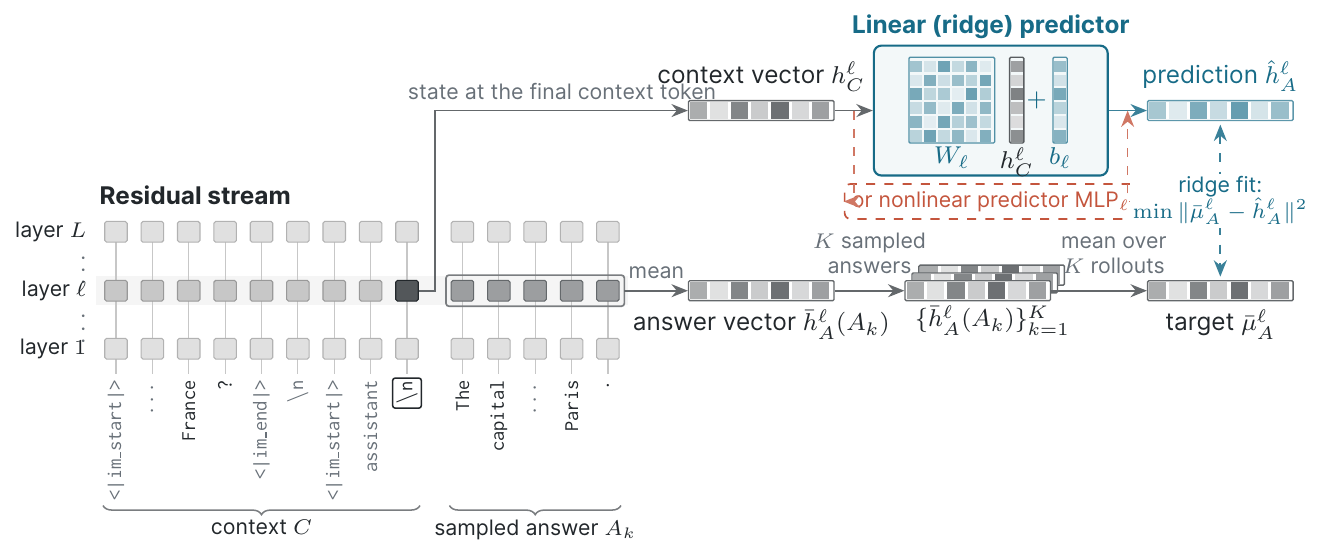
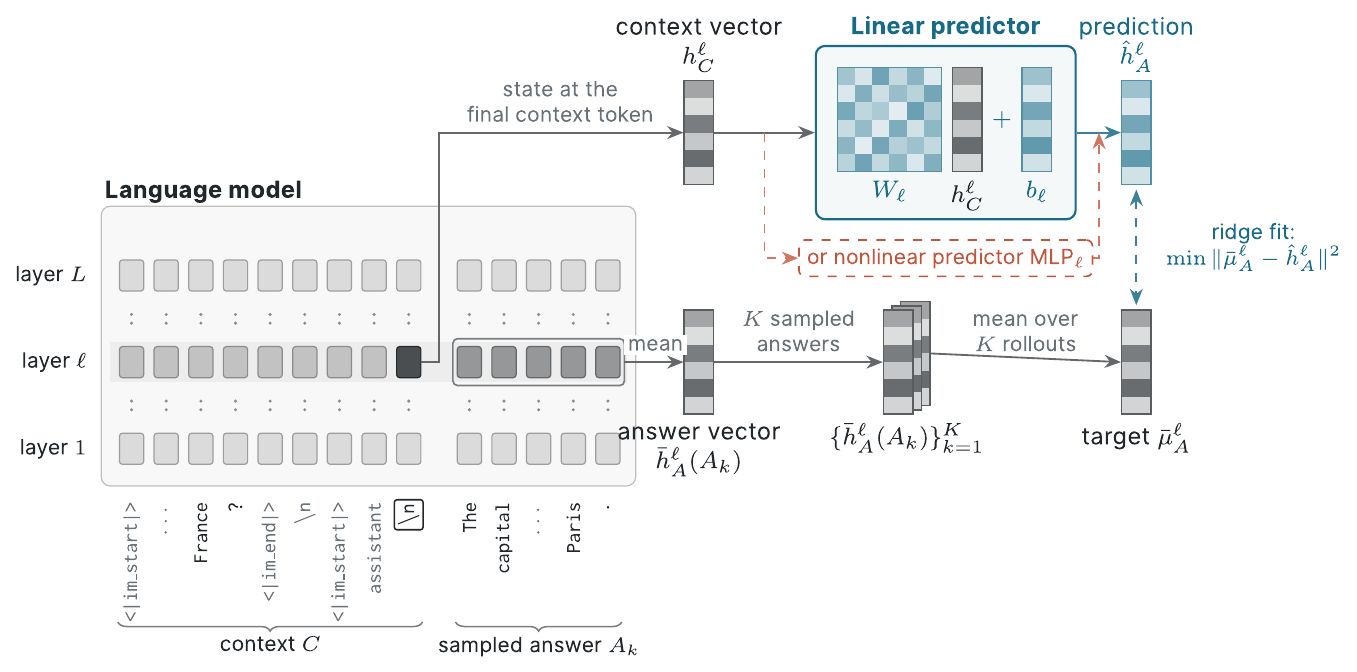
paper Figure 1 rev 6: task-vectors-style residual-stream grid, contiguous-cell column vectors and matrix, respaced labels (Thomas 2026-09-03)
Generated with [Claude Code](https://claude.ai/code)
via [Happy](https://happy.engineering)

Changed region(s): [[0.0, 0.0306, 0.9909, 0.9784], [0.3097, 0.9173, 0.4955, 0.9784], [0.0619, 0.2752, 0.2168, 0.3058]]

diff --git a/docs/paper_context_answer_map/fig1_schematic.tex b/docs/paper_context_answer_map/fig1_schematic.tex
@@ -1,4 +1,4 @@
-% Figure 1: context-to-answer prediction pipeline (rev 4, 2026-09-03).
+% Figure 1: context-to-answer prediction pipeline (rev 6, 2026-09-03).
 % Compile standalone: pdflatex fig1_schematic.tex
 % THEN convert text to outlines before copying to Overleaf (REQUIRED):
 %   gs -q -dNOPAUSE -dBATCH -sDEVICE=pdfwrite -dNoOutputFonts -dCompatibilityLevel=1.5 \
@@ -9,16 +9,16 @@
 % draw a literal "No Glyph" box over every bar accent (Thomas, 2026-09-03). Outlining
 % removes all fonts from the figure PDF, so no viewer does any glyph lookup.
 %
-% Design notes (Thomas, 2026-09-03): show the transformer layers (token columns
-% x layer rows, layer l highlighted) so the two vectors are read off the layer-l
-% row; tokens may be truncated ("..." columns) but the template tokens around the
-% context/answer boundary are exact for Qwen2.5-7B-Instruct (the context vector
-% sits on the "\n" token after "assistant", token id 198). No circles for vectors
-% (cell strips), Inter text font matching the other paper figures, the ridge
-% predictor drawn as a matrix plus a bias with the MLP as a small dashed
-% alternative, no evaluation / uses boxes. Palette = paper palette
-% (c2a_plot_style.py): ink #22272B, muted #687078, linear teal #176B87,
-% nonlinear terracotta #C4553D. Two text sizes: 8 pt (names) and 7 pt (annotations, tokens).
+% Design (Thomas, 2026-09-03): follows the residual-stream convention of Hendel et al.
+% 2023 (task vectors, Fig. 1): a model box holding a grid of tall rounded hidden-state
+% rectangles, tokens as columns, layers as rows with dots for the elided layers, the
+% extracted states filled in a solid color. Vectors are tall contiguous-cell columns
+% (no gaps), the ridge map is a contiguous 6x6 cell grid, so the predictor reads as
+% matrix x column + column. Tokens are truncated but the template tokens around the
+% context/answer boundary are exact for Qwen2.5-7B-Instruct (the context vector sits
+% on the "\n" token after "assistant", token id 198). Palette = paper palette
+% (c2a_plot_style.py): ink #22272B, muted #687078, linear teal #176B87, nonlinear
+% terracotta #C4553D. Two text sizes: 8 pt (names) and 7 pt (annotations, tokens).
 \documentclass[tikz,border=4pt]{standalone}
 \usepackage[type1]{inter}
 \renewcommand{\familydefault}{\sfdefault}
@@ -32,39 +32,29 @@
 \definecolor{terra}{HTML}{C4553D}
 \definecolor{paper}{HTML}{FFFFFF}
 
-% ---- vector glyph: a row of small square cells ------------------------------
-\newcommand{\vecstrip}[4]{%
+% ---- column vector glyph: 6 contiguous cells, 0.34 x 1.20 cm ----------------------
+% \colvec{<node name>}{<x>}{<y>}{<color>}
+\newcommand{\colvec}[4]{%
   \begin{scope}[shift={(#2,#3)}]
-    \fill[paper] (-0.84,-0.115) rectangle (0.84,0.115);
-    \foreach \i/\s in {0/38,1/14,2/56,3/24,4/66,5/18,6/44} {
-      \fill[#4!\s] ({-0.8225+\i*0.235},-0.1) rectangle ++(0.2,0.2);
+    \foreach \r/\s in {0/42,1/16,2/60,3/26,4/68,5/20} {
+      \fill[#4!\s] (-0.17,{0.60-(\r+1)*0.20}) rectangle (0.17,{0.60-\r*0.20});
     }
-    \draw[#4!70, line width=0.45pt, rounded corners=0.4pt] (-0.84,-0.115) rectangle (0.84,0.115);
+    \draw[#4!75, line width=0.5pt] (-0.17,-0.60) rectangle (0.17,0.60);
   \end{scope}
-  \node[inner sep=0pt, minimum width=1.68cm, minimum height=0.23cm] (#1) at (#2,#3) {};
+  \node[inner sep=0pt, minimum width=0.34cm, minimum height=1.2cm] (#1) at (#2,#3) {};
 }
-% ---- matrix glyph: a 6x6 grid --------------------------------------------------
-\newcommand{\matglyph}[4]{%
+% ---- matrix glyph: 6x6 contiguous cells, 1.20 x 1.20 cm ---------------------------
+\newcommand{\matgrid}[4]{%
   \begin{scope}[shift={(#2,#3)}]
     \foreach \r/\row in {0/{40,18,62,26,50,14},1/{16,54,22,44,30,60},2/{58,28,36,12,64,34},
                         3/{24,46,14,56,20,48},4/{50,12,60,32,42,26},5/{30,62,26,48,16,54}} {
-      \foreach \c/\s [count=\ci from 0] in \row {
-        \fill[#4!\s] ({-0.48+\ci*0.16},{0.32-\r*0.16}) rectangle ++(0.135,0.135);
+      \foreach \s [count=\ci from 0] in \row {
+        \fill[#4!\s] ({-0.60+\ci*0.20},{0.60-(\r+1)*0.20}) rectangle ({-0.60+(\ci+1)*0.20},{0.60-\r*0.20});
       }
     }
-    \draw[#4!75, line width=0.45pt, rounded corners=0.4pt] (-0.495,-0.495) rectangle (0.495,0.495);
+    \draw[#4!75, line width=0.5pt] (-0.60,-0.60) rectangle (0.60,0.60);
   \end{scope}
-  \node[inner sep=0pt, minimum width=0.99cm, minimum height=0.99cm] (#1) at (#2,#3) {};
-}
-% ---- column glyph: 6 stacked cells -----------------------------------------------
-\newcommand{\colglyph}[4]{%
-  \begin{scope}[shift={(#2,#3)}]
-    \foreach \r/\s in {0/44,1/20,2/58,3/30,4/16,5/52} {
-      \fill[#4!\s] (-0.0675,{0.32-\r*0.16}) rectangle ++(0.135,0.135);
-    }
-    \draw[#4!75, line width=0.45pt, rounded corners=0.4pt] (-0.0825,-0.495) rectangle (0.0825,0.495);
-  \end{scope}
-  \node[inner sep=0pt, minimum width=0.165cm, minimum height=0.99cm] (#1) at (#2,#3) {};
+  \node[inner sep=0pt, minimum width=1.2cm, minimum height=1.2cm] (#1) at (#2,#3) {};
 }
 
 \begin{document}
@@ -78,130 +68,120 @@
   tok/.style={font=\ttfamily\fontsize{7}{8.2}\selectfont, text=muted, inner sep=0.8pt,
               rotate=90, anchor=east},
   tokink/.style={tok, text=ink},
-  cell/.style={draw=black!30, fill=black!12, line width=0.35pt, rounded corners=0.6pt,
-               minimum width=0.26cm, minimum height=0.24cm, inner sep=0pt},
-  cellctx/.style={cell, fill=black!22, draw=black!40},
-  cellans/.style={cell, fill=ink!45, draw=ink!70},
-  cellfinal/.style={cell, fill=ink!78, draw=ink},
-  conn/.style={black!22, line width=0.4pt},
+  hs/.style={draw=black!38, fill=black!14, line width=0.4pt, rounded corners=1pt,
+             minimum width=0.28cm, minimum height=0.36cm, inner sep=0pt},
+  hsctx/.style={hs, fill=black!24, draw=black!45},
+  hsans/.style={hs, fill=ink!48, draw=ink!70},
+  hsfinal/.style={hs, fill=ink!82, draw=ink},
   flow/.style={->, line width=0.6pt, ink!70},
   bypass/.style={->, dashed, line width=0.5pt, terra!80},
 ]
 
 % ===========================================================================
-% Left: transformer residual stream, tokens as columns, layers as rows.
-% Context columns i = 0..8 at x = 0.75 + 0.42 i; answer columns j = 0..4 at x = 4.75 + 0.42 j.
-% Rows: layer 1 at y = 0.95, layer l at 1.62, layer L at 2.30.
+% Left: the language model as a grid of hidden states (Hendel et al. 2023 style).
+% Context columns i = 0..8 at x = 0.80 + 0.40 i; answer columns j = 0..4 at x = 4.70 + 0.40 j.
+% Rows: layer 1 at y = 1.05, layer l at 2.05, layer L at 3.05; dots at 1.55 and 2.55.
 % ===========================================================================
-\node[lbl, anchor=west, font=\fontsize{8}{9.5}\selectfont\bfseries] at (0.52,2.72)
-  {Residual stream};
+\draw[fill=black!3, draw=black!25, rounded corners=3pt] (0.45,0.62) rectangle (6.62,3.85);
+\node[lbl, anchor=west, font=\fontsize{8}{9.5}\selectfont\bfseries] at (0.45,4.02) {Language model};
+\fill[black!7] (0.55,1.82) rectangle (6.52,2.28);   % layer-l band
 
-% layer labels
-\node[ann, anchor=east, text=ink] at (0.45,2.30) {layer $L$};
-\node[ann, anchor=east] at (0.45,1.96) {$\vdots$};
-\node[ann, anchor=east, text=ink] at (0.45,1.62) {layer $\ell$};
-\node[ann, anchor=east] at (0.45,1.285) {$\vdots$};
-\node[ann, anchor=east, text=ink] at (0.45,0.95) {layer $1$};
+\node[ann, anchor=east, text=ink] at (0.32,3.05) {layer $L$};
+\node[ann, anchor=east, text=ink] at (0.32,2.05) {layer $\ell$};
+\node[ann, anchor=east, text=ink] at (0.32,1.05) {layer $1$};
 
-% layer-l band
-\fill[black!4] (0.52,1.45) rectangle (6.66,1.79);
-
-% tokens (rotated), connectors, and cells
-% context: the first template token, an elision, then the exact tail of the prompt
-\foreach \x/\t/\s in {0.75/{<|im\_start|>}/tok, 1.17/{$\cdots$}/tok, 1.59/{France}/tokink,
-                     2.01/{?}/tokink, 2.43/{<|im\_end|>}/tok, 2.85/{\textbackslash n}/tok,
-                     3.27/{<|im\_start|>}/tok, 3.69/{assistant}/tok} {
-  \node[\s] at (\x,0.62) {\t};
-  \draw[conn] (\x,0.66) -- (\x,0.83);
-  \draw[conn] (\x,1.07) -- (\x,1.50);
-  \draw[conn] (\x,1.74) -- (\x,2.18);
-  \node[cell] at (\x,0.95) {};
-  \node[cellctx] at (\x,1.62) {};
-  \node[cell] at (\x,2.30) {};
+% context columns (first template token, an elision, then the exact tail of the prompt)
+\foreach \x/\t/\s in {0.80/{<|im\_start|>}/tok, 1.20/{$\cdots$}/tok, 1.60/{France}/tokink,
+                     2.00/{?}/tokink, 2.40/{<|im\_end|>}/tok, 2.80/{\textbackslash n}/tok,
+                     3.20/{<|im\_start|>}/tok, 3.60/{assistant}/tok} {
+  \node[\s] at (\x,0.47) {\t};
+  \node[hs] at (\x,1.05) {};
+  \node[hsctx] at (\x,2.05) {};
+  \node[hs] at (\x,3.05) {};
+  \fill[black!45] (\x,1.50) circle (0.55pt) (\x,1.60) circle (0.55pt)
+                  (\x,2.50) circle (0.55pt) (\x,2.60) circle (0.55pt);
 }
 % the final context token: "\n" after "assistant" (its layer-l state is h_C)
 \node[tokink, draw=ink, line width=0.5pt, rounded corners=0.8pt, inner sep=1.2pt, fill=paper]
-  at (4.11,0.62) {\textbackslash n};
-\draw[conn] (4.11,0.66) -- (4.11,0.83);
-\draw[conn] (4.11,1.07) -- (4.11,1.50);
-\draw[conn] (4.11,1.74) -- (4.11,2.18);
-\node[cell] at (4.11,0.95) {};
-\node[cellfinal] (nlcell) at (4.11,1.62) {};
-\node[cell] at (4.11,2.30) {};
-% answer: the sampled answer's tokens (elided in the middle)
-\foreach \x/\t/\s in {4.75/{The}/tokink, 5.17/{capital}/tokink, 5.59/{$\cdots$}/tok,
-                     6.01/{Paris}/tokink, 6.43/{.}/tokink} {
-  \node[\s] at (\x,0.62) {\t};
-  \draw[conn] (\x,0.66) -- (\x,0.83);
-  \draw[conn] (\x,1.07) -- (\x,1.50);
-  \draw[conn] (\x,1.74) -- (\x,2.18);
-  \node[cell] at (\x,0.95) {};
-  \node[cellans] at (\x,1.62) {};
-  \node[cell] at (\x,2.30) {};
+  at (4.00,0.47) {\textbackslash n};
+\node[hs] at (4.00,1.05) {};
+\node[hsfinal] (hfinal) at (4.00,2.05) {};
+\node[hs] at (4.00,3.05) {};
+\fill[black!45] (4.00,1.50) circle (0.55pt) (4.00,1.60) circle (0.55pt)
+                (4.00,2.50) circle (0.55pt) (4.00,2.60) circle (0.55pt);
+% answer columns (the sampled answer's tokens, elided in the middle)
+\foreach \x/\t/\s in {4.70/{The}/tokink, 5.10/{capital}/tokink, 5.50/{$\cdots$}/tok,
+                     5.90/{Paris}/tokink, 6.30/{.}/tokink} {
+  \node[\s] at (\x,0.47) {\t};
+  \node[hs] at (\x,1.05) {};
+  \node[hsans] at (\x,2.05) {};
+  \node[hs] at (\x,3.05) {};
+  \fill[black!45] (\x,1.50) circle (0.55pt) (\x,1.60) circle (0.55pt)
+                  (\x,2.50) circle (0.55pt) (\x,2.60) circle (0.55pt);
 }
-% box around the answer-token states at layer l
-\draw[ink!60, line width=0.55pt, rounded corners=1pt] (4.56,1.44) rectangle (6.62,1.80);
+% group of answer-token states at layer l
+\draw[ink!60, line width=0.55pt, rounded corners=1.5pt] (4.51,1.78) rectangle (6.49,2.32);
 
 % braces under the tokens
 \draw[decorate, decoration={brace, mirror, amplitude=3pt}, ink!60, line width=0.5pt]
-  (0.60,-0.86) -- (4.26,-0.86) node[midway, below=3.5pt, ann, text=ink] {context $C$};
+  (0.64,-0.95) -- (4.16,-0.95) node[midway, below=3.5pt, ann, text=ink] {context $C$};
 \draw[decorate, decoration={brace, mirror, amplitude=3pt}, ink!60, line width=0.5pt]
-  (4.60,-0.86) -- (6.58,-0.86) node[midway, below=3.5pt, ann, text=ink] {sampled answer $A_k$};
+  (4.54,-0.95) -- (6.46,-0.95) node[midway, below=3.5pt, ann, text=ink] {sampled answer $A_k$};
 
 % ===========================================================================
-% Middle: the two vectors read off the layer-l row.
+% Middle: the two vectors read off layer l.
 % ===========================================================================
-\vecstrip{hc}{8.20}{3.70}{ink}
-\node[lbl, above=1.5pt of hc] {context vector $h_C^{\ell}$};
-\draw[flow] (nlcell.east) -- (4.43,1.62) -- (4.43,3.70) -- (hc.west);
-\node[ann, anchor=south] at (5.90,3.78) {state at the final context token};
+\colvec{hc}{7.35}{4.70}{ink}
+\node[lbl, anchor=south, align=center] at (7.35,5.36) {context vector\\$h_C^{\ell}$};
+\draw[flow] (hfinal.east) -- (4.35,2.05) -- (4.35,4.70) -- (hc.west);
+\node[ann, anchor=south] at (5.75,4.78) {state at the\\final context token};
 
-\vecstrip{ha}{8.20}{1.62}{ink}
-\node[lbl, below=1.5pt of ha] {answer vector $\bar h_A^{\ell}(A_k)$};
-\draw[flow] (6.62,1.62) -- (ha.west);
-\node[ann, anchor=south] at (6.99,1.72) {mean};
+\colvec{ha}{7.35}{2.05}{ink}
+\node[lbl, anchor=north, align=center] at (7.35,1.39) {answer vector\\$\bar h_A^{\ell}(A_k)$};
+\draw[flow] (6.49,2.05) -- (ha.west);
+\node[ann, anchor=south, fill=paper, inner sep=1.2pt] at (6.85,2.13) {mean};
 
 % ===========================================================================
 % Right: the predictor (top) and the prediction target (bottom).
 % ===========================================================================
-\node[draw=teal, line width=0.7pt, fill=teal!5, rounded corners=2.5pt,
-      minimum width=2.7cm, minimum height=1.5cm, inner sep=0pt] (ridge) at (10.85,3.70) {};
+\node[draw=teal, line width=0.7pt, fill=teal!5, rounded corners=3pt,
+      minimum width=3.0cm, minimum height=2.0cm, inner sep=0pt] (ridge) at (10.20,4.70) {};
 \node[lbl, text=teal, anchor=south, font=\fontsize{8}{9.5}\selectfont\bfseries]
-  at ($(ridge.north)+(0,0.02)$) {Linear (ridge) predictor};
-\matglyph{W}{10.40}{3.82}{teal}
-\node[lbl, text=teal, anchor=north, inner sep=0.5pt] at (10.40,3.30) {$W_\ell$};
-\colglyph{hcol}{11.15}{3.82}{ink}
-\node[lbl, anchor=north, inner sep=0.5pt] at (11.15,3.30) {$h_C^{\ell}$};
-\node[lbl, text=teal, inner sep=0pt] at (11.38,3.82) {$+$};
-\colglyph{b}{11.65}{3.82}{teal}
-\node[lbl, text=teal, anchor=north, inner sep=0.5pt] at (11.65,3.30) {$b_\ell$};
+  at (10.20,5.74) {Linear predictor};
+\matgrid{W}{9.55}{4.85}{teal}
+\node[lbl, text=teal, anchor=north, inner sep=0.5pt] at (9.55,4.17) {$W_\ell$};
+\colvec{hcol}{10.45}{4.85}{ink}
+\node[lbl, anchor=north, inner sep=0.5pt] at (10.45,4.17) {$h_C^{\ell}$};
+\node[lbl, text=teal, inner sep=0pt] at (10.85,4.85) {$+$};
+\colvec{bcol}{11.25}{4.85}{teal}
+\node[lbl, text=teal, anchor=north, inner sep=0.5pt] at (11.25,4.17) {$b_\ell$};
 \draw[flow] (hc.east) -- (ridge.west);
-\vecstrip{hhat}{13.50}{3.70}{teal}
-\node[lbl, above=1.5pt of hhat, text=teal] {prediction $\hat h_A^{\ell}$};
+\colvec{hhat}{12.40}{4.70}{teal}
+\node[lbl, text=teal, anchor=south, align=center] at (12.40,5.36) {prediction\\$\hat h_A^{\ell}$};
 \draw[flow, teal!85] (ridge.east) -- (hhat.west);
 
 % nonlinear alternative: a small dashed bypass under the ridge box
 \node[draw=terra, dashed, line width=0.55pt, fill=paper, rounded corners=2pt,
-      inner sep=2.4pt, font=\fontsize{7}{8.4}\selectfont, text=terra]
-  (mlp) at (10.85,2.65) {or nonlinear predictor MLP$_\ell$};
-\draw[bypass] (9.27,3.70) -- (9.27,2.65) -- (mlp.west);
-\draw[bypass] (mlp.east) -- (12.43,2.65) -- (12.43,3.70);
+      inner sep=2.6pt, font=\fontsize{7}{8.4}\selectfont, text=terra]
+  (mlp) at (10.20,3.25) {or nonlinear predictor MLP$_\ell$};
+\draw[bypass] (8.11,4.70) -- (8.11,3.25) -- (mlp.west);
+\draw[bypass] (mlp.east) -- (11.97,3.25) -- (11.97,4.70);
 
 % prediction target: mean over K sampled answers
-\vecstrip{s3}{10.86}{1.80}{ink}
-\vecstrip{s2}{10.78}{1.71}{ink}
-\vecstrip{s1}{10.70}{1.62}{ink}
-\node[lbl, anchor=north] at (10.87,1.49) {$\{\bar h_A^{\ell}(A_k)\}_{k=1}^{K}$};
+\colvec{s3}{9.85}{2.15}{ink}
+\colvec{s2}{9.75}{2.10}{ink}
+\colvec{s1}{9.65}{2.05}{ink}
+\node[lbl, anchor=north] at (9.75,1.39) {$\{\bar h_A^{\ell}(A_k)\}_{k=1}^{K}$};
 \draw[flow] (ha.east) -- (s1.west);
-\node[ann, anchor=south] at (9.45,1.77) {$K$ sampled\\answers};
-\vecstrip{mu}{13.50}{1.62}{ink}
-\node[lbl, below=1.5pt of mu] {target $\bar\mu_A^{\ell}$};
-\draw[flow] (s1.east) -- (mu.west);
-\node[ann, anchor=south] at (12.27,1.77) {mean over\\$K$ rollouts};
+\node[ann, anchor=south] at (8.50,2.13) {$K$ sampled\\answers};
+\colvec{mu}{12.40}{2.05}{ink}
+\node[lbl, anchor=north] at (12.40,1.39) {target $\bar\mu_A^{\ell}$};
+\draw[flow] (s3.east) -- (mu.west);
+\node[ann, anchor=south] at (11.12,2.13) {mean over\\$K$ rollouts};
 
 % fit: prediction against target
-\draw[<->, line width=0.6pt, teal!85, dashed] ($(hhat.south)+(0,-0.04)$) -- ($(mu.north)+(0,0.04)$);
-\node[ann, text=teal, fill=paper] at (13.50,2.66) {ridge fit:\\$\min\,\lVert \bar\mu_A^{\ell}-\hat h_A^{\ell}\rVert^{2}$};
+\draw[<->, line width=0.6pt, teal!85, dashed] ($(hhat.south)+(0,-0.05)$) -- ($(mu.north)+(0,0.05)$);
+\node[ann, text=teal, anchor=west] at (12.70,3.38) {ridge fit:\\$\min\,\lVert \bar\mu_A^{\ell}-\hat h_A^{\ell}\rVert^{2}$};
 
 \end{tikzpicture}
 \end{document}
